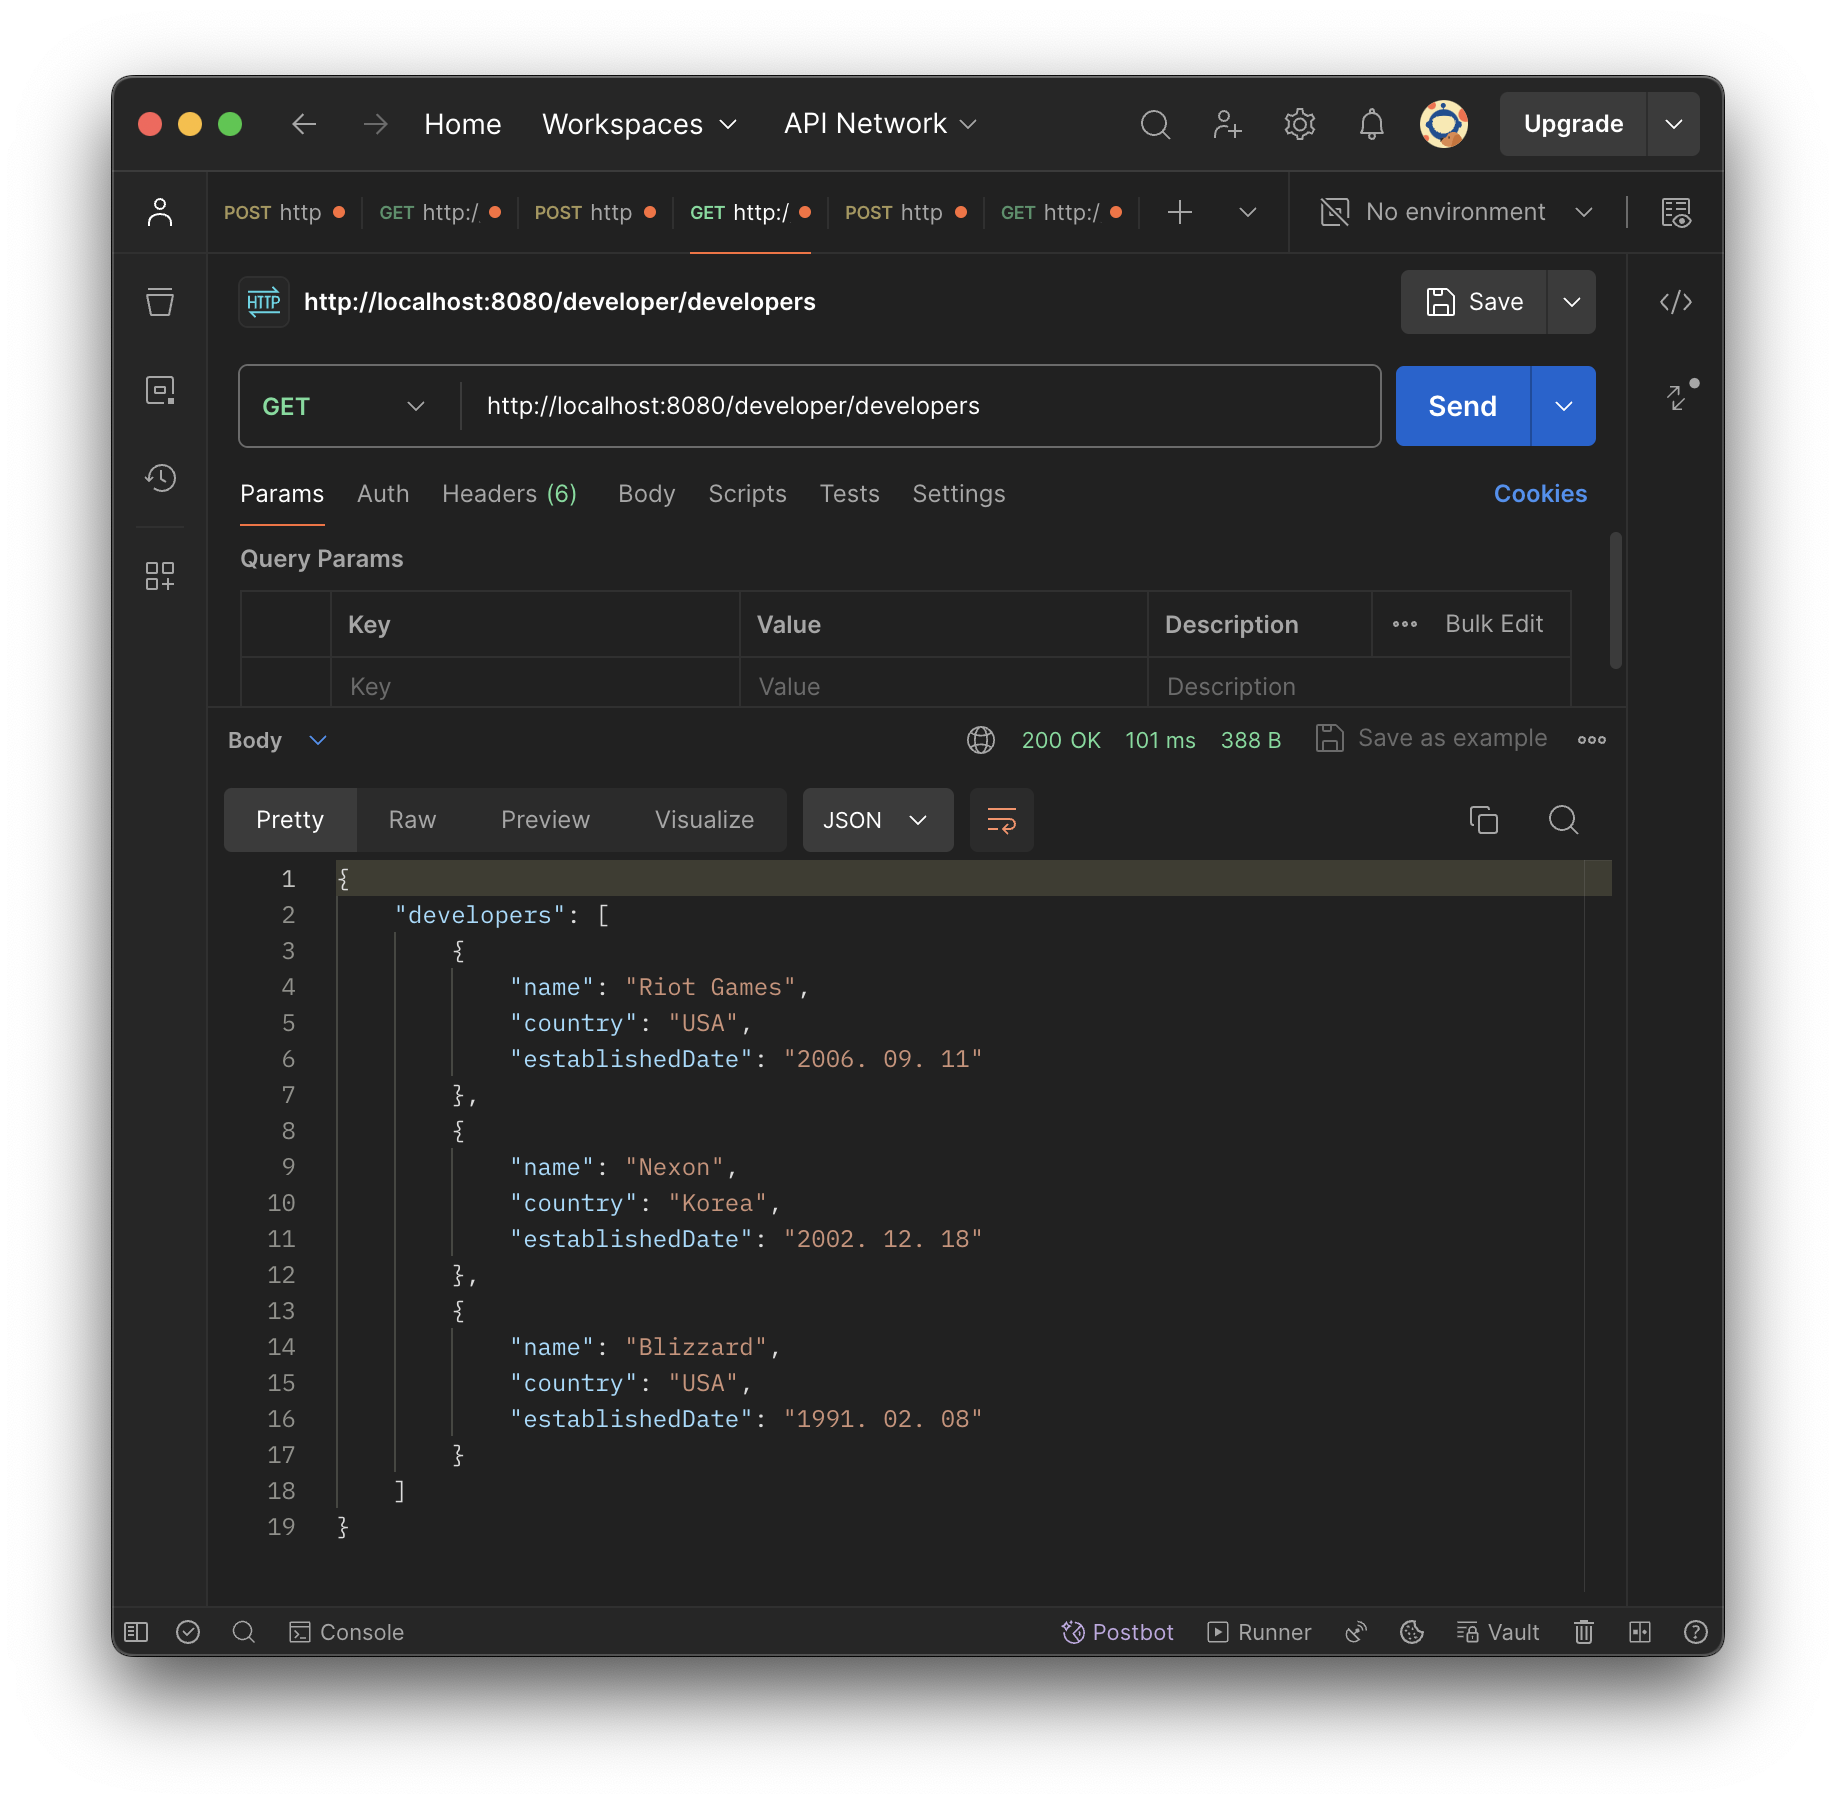
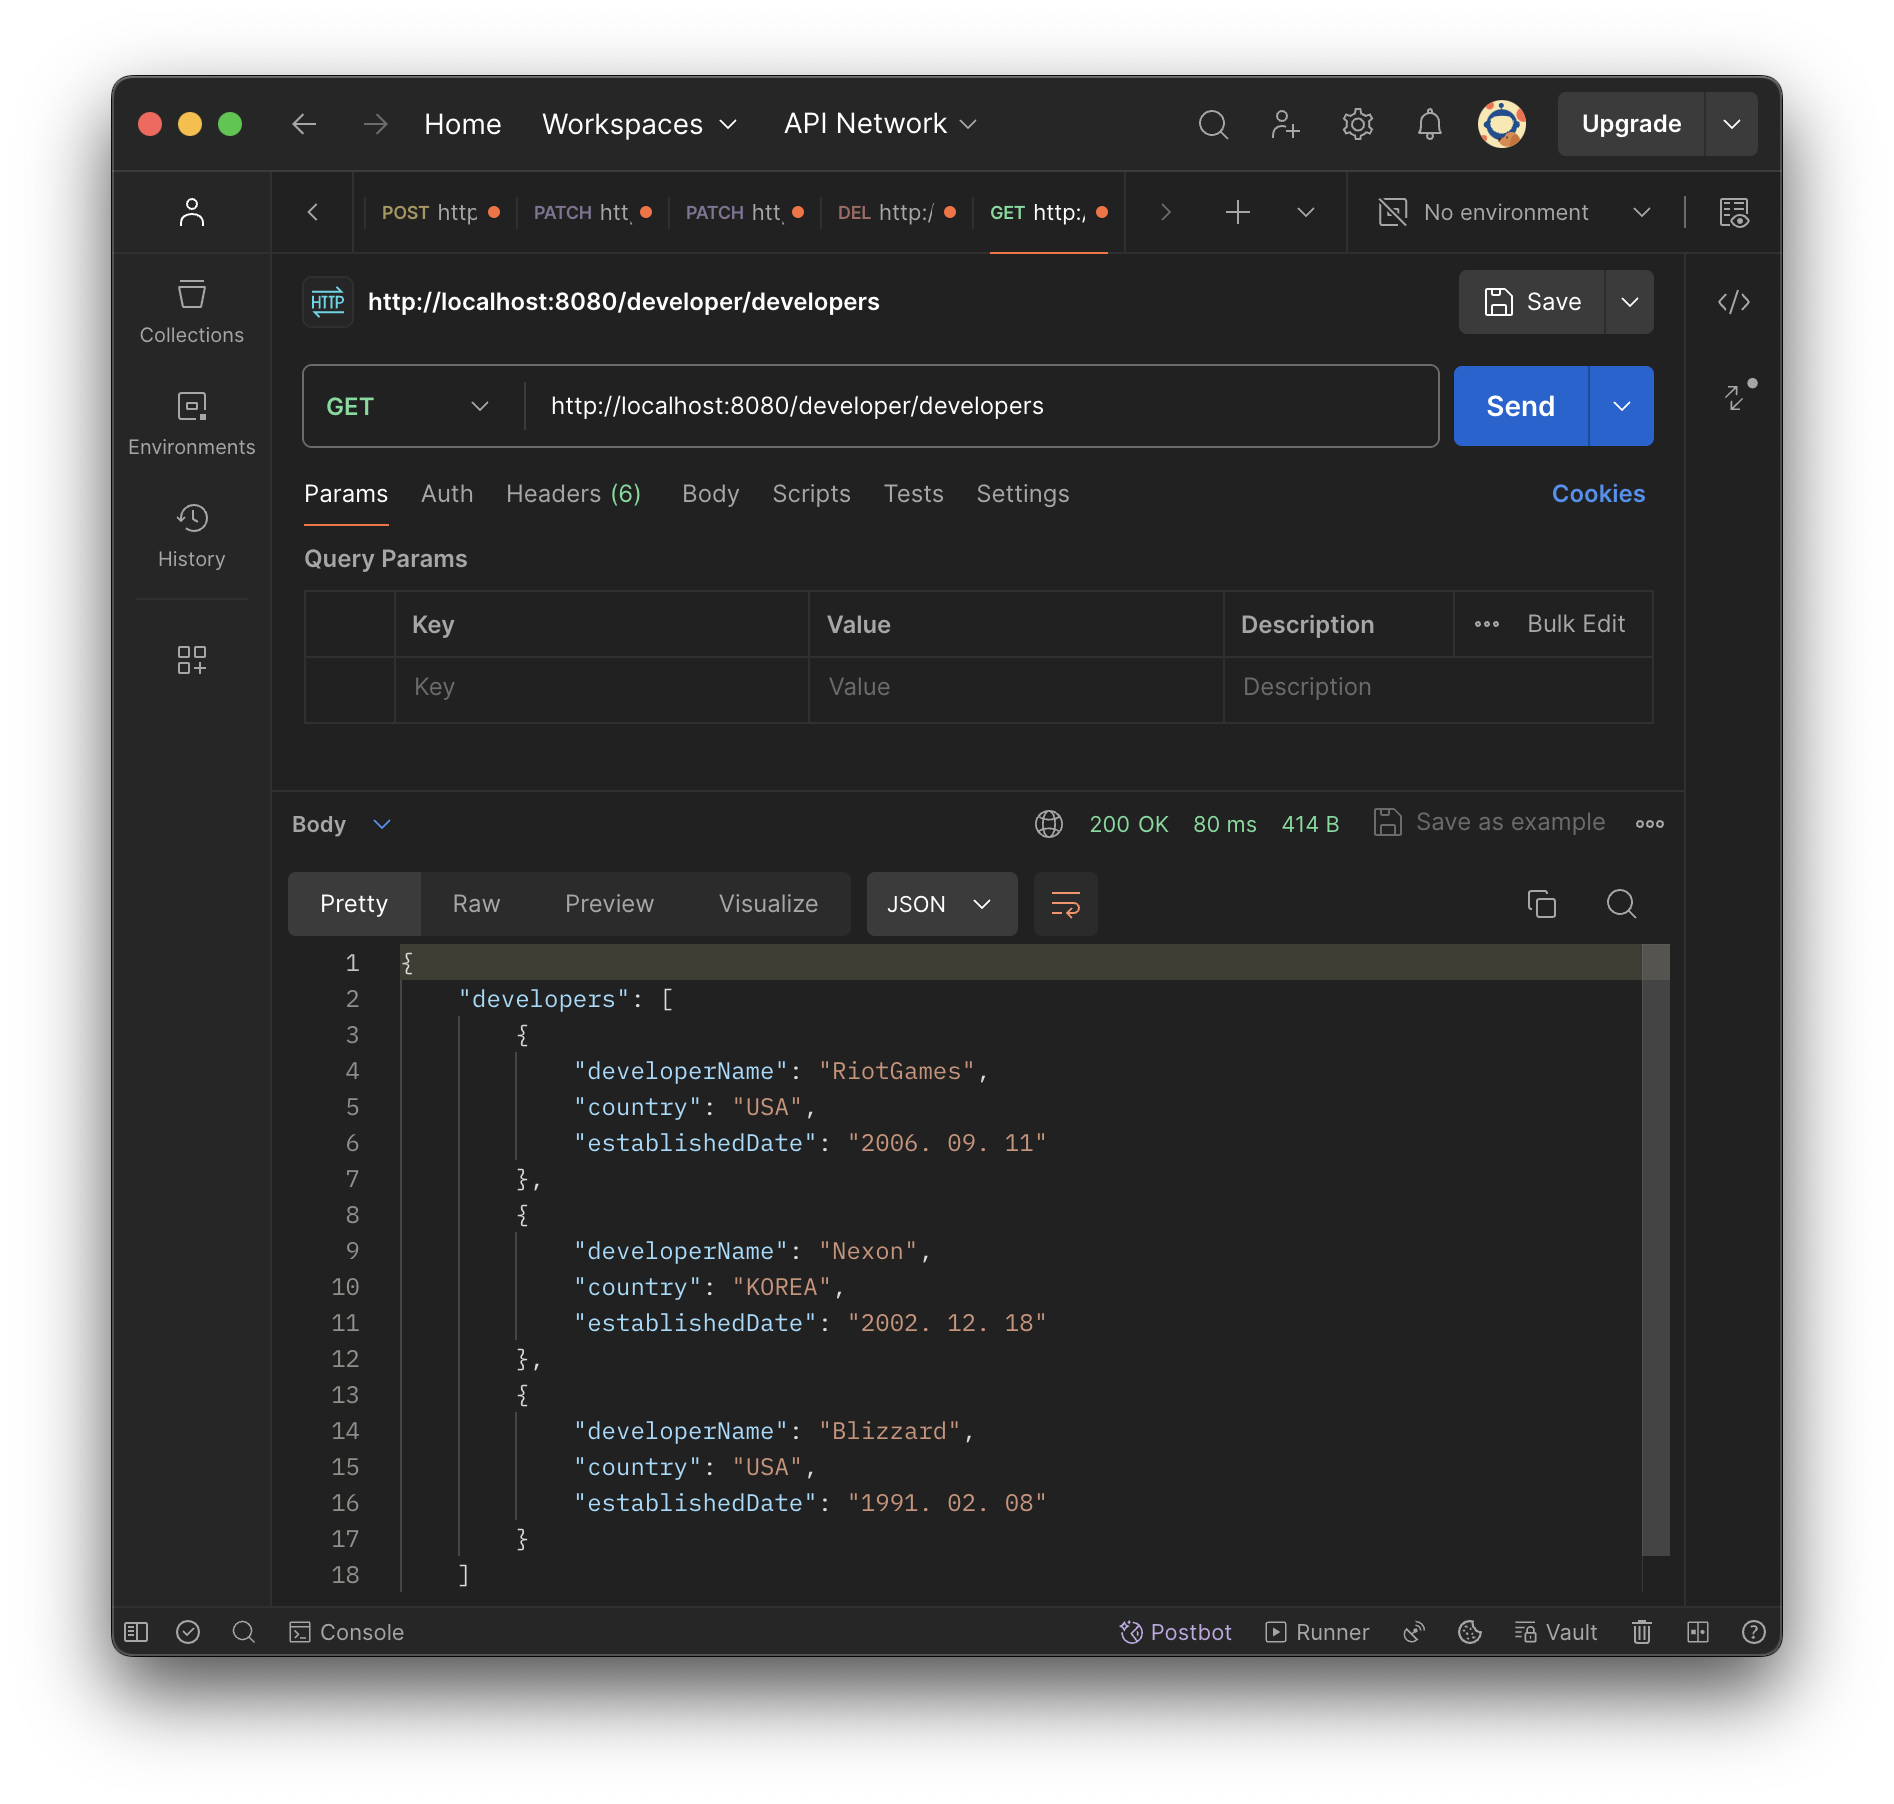
refactor: develoerName으로 게임 리스트를 조회

diff --git a/kangduoh/likelion-assignment-crud/src/main/java/org/likelion/likelionassignmentcrud/developer/application/DeveloperService.java b/kangduoh/likelion-assignment-crud/src/main/java/org/likelion/likelionassignmentcrud/developer/application/DeveloperService.java
@@ -10,11 +10,13 @@ import org.springframework.stereotype.Service;
 import org.springframework.transaction.annotation.Transactional;
 
 import java.util.List;
+import java.util.regex.Pattern;
 
 @Service
 @Transactional(readOnly = true)
 public class DeveloperService {
     private final DeveloperRepository developerRepository;
+    private static final String NAME_PATTERN = "^[a-zA-Z0-9]*$";
 
     public DeveloperService(DeveloperRepository developerRepository) {
         this.developerRepository = developerRepository;
@@ -23,8 +25,12 @@ public class DeveloperService {
     // 개발사 저장
     @Transactional
     public void developerSave(DeveloperSaveReqDto developerSaveReqDto) {
+        if (!Pattern.matches(NAME_PATTERN, developerSaveReqDto.developerName())) {
+            throw new IllegalArgumentException("개발사 이름은 영문자와 숫자만 포함 가능합니다.");
+        }
+
         Developer developer = Developer.builder()
-                .name(developerSaveReqDto.name())
+                .name(developerSaveReqDto.developerName())
                 .country(developerSaveReqDto.country())
                 .establishedDate(developerSaveReqDto.establishedDate())
                 .build();
@@ -44,24 +50,24 @@ public class DeveloperService {
     }
 
     // 개발사 조회(하나)
-    public DeveloperInfoResDto developerFindOne(Long developerId) {
-        Developer developer = developerRepository.findById(developerId).orElseThrow(IllegalArgumentException::new);
+    public DeveloperInfoResDto developerFindOne(String developerName) {
+        Developer developer = developerRepository.findByName(developerName).orElseThrow(IllegalArgumentException::new);
 
         return DeveloperInfoResDto.from(developer);
     }
 
     // 개발사 업데이트(이름, 국가, 설립일)
     @Transactional
-    public void developerUpdate(Long developerId, DeveloperUpdateReqDto developerUpdateReqDto) {
-        Developer developer = developerRepository.findById(developerId).orElseThrow(IllegalArgumentException::new);
+    public void developerUpdate(String developerName, DeveloperUpdateReqDto developerUpdateReqDto) {
+        Developer developer = developerRepository.findByName(developerName).orElseThrow(IllegalArgumentException::new);
 
         developer.update(developerUpdateReqDto);
     }
 
     // 개발사 삭제
     @Transactional
-    public void developerDelete(Long developerId) {
-        Developer developer = developerRepository.findById(developerId).orElseThrow(IllegalArgumentException::new);
+    public void developerDelete(String developerName) {
+        Developer developer = developerRepository.findByName(developerName).orElseThrow(IllegalArgumentException::new);
 
         developerRepository.delete(developer);
     }

diff --git a/kangduoh/likelion-assignment-crud/src/main/java/org/likelion/likelionassignmentcrud/developer/api/DeveloperController.java b/kangduoh/likelion-assignment-crud/src/main/java/org/likelion/likelionassignmentcrud/developer/api/DeveloperController.java
@@ -32,24 +32,29 @@ public class DeveloperController {
         return new ResponseEntity<>(developerListResDto, HttpStatus.OK);
     }
 
-    @GetMapping("/{developerId}")
-    public ResponseEntity<DeveloperInfoResDto> developerFindOne(@PathVariable("developerId") Long developerId) {
-        DeveloperInfoResDto developerInfoResDto = developerService.developerFindOne(developerId);
+    @GetMapping("/{developerName}")
+    public ResponseEntity<DeveloperInfoResDto> developerFindOne(@PathVariable("developerName") String developerName) {
+        DeveloperInfoResDto developerInfoResDto = developerService.developerFindOne(developerName);
 
         return new ResponseEntity<>(developerInfoResDto, HttpStatus.OK);
     }
 
-    @PatchMapping("/{developerId}")
-    public ResponseEntity<String> developerUpdate(@PathVariable("developerId") Long developerId, @RequestBody DeveloperUpdateReqDto developerUpdateReqDto) {
-        developerService.developerUpdate(developerId, developerUpdateReqDto);
+    @PatchMapping("/{developerName}")
+    public ResponseEntity<String> developerUpdate(@PathVariable("developerName") String developerName, @RequestBody DeveloperUpdateReqDto developerUpdateReqDto) {
+        developerService.developerUpdate(developerName, developerUpdateReqDto);
 
         return new ResponseEntity<>("개발사 수정", HttpStatus.OK);
     }
 
-    @DeleteMapping("/{developerId}")
-    public ResponseEntity<String> developerDelete(@PathVariable("developerId") Long developerId) {
-        developerService.developerDelete(developerId);
+    @DeleteMapping("/{developerName}")
+    public ResponseEntity<String> developerDelete(@PathVariable("developerName") String developerName) {
+        developerService.developerDelete(developerName);
 
         return new ResponseEntity<>("개발사 삭제", HttpStatus.OK);
+    }
+
+    @ExceptionHandler(IllegalArgumentException.class)
+    public final ResponseEntity<String> handleIllegalArgumentException(IllegalArgumentException ex) {
+        return new ResponseEntity<>(ex.getMessage(), HttpStatus.BAD_REQUEST);
     }
 }

diff --git a/kangduoh/likelion-assignment-crud/src/main/java/org/likelion/likelionassignmentcrud/game/application/GameService.java b/kangduoh/likelion-assignment-crud/src/main/java/org/likelion/likelionassignmentcrud/game/application/GameService.java
@@ -27,7 +27,7 @@ public class GameService {
     // Create
     @Transactional
     public void gameSave(GameSaveReqDto gameSaveReqDto) {
-        Developer developer = developerRepository.findById(gameSaveReqDto.developerId())
+        Developer developer = developerRepository.findByName(gameSaveReqDto.developerName())
                 .orElseThrow(IllegalArgumentException::new);
 
         Game game = Game.builder()
@@ -41,9 +41,9 @@ public class GameService {
     }
 
     // 개발사에 따른 게임 리스트 조회
-    public GameListResDto gameFindDeveloper(Long developerId) {
-        Developer developer = developerRepository.findById(developerId)
-                .orElseThrow(null);
+    public GameListResDto gameFindDeveloperByName(String developerName) {
+        Developer developer = developerRepository.findByName(developerName)
+                .orElseThrow(() -> new IllegalArgumentException("해당 개발사를 찾을 수 없습니다."));
 
         List<Game> games = gameRepository.findByDeveloper(developer);
         List<GameInfoResDto> gameInfoResDtoList = games.stream()

diff --git a/kangduoh/likelion-assignment-crud/src/main/java/org/likelion/likelionassignmentcrud/developer/domain/Developer.java b/kangduoh/likelion-assignment-crud/src/main/java/org/likelion/likelionassignmentcrud/developer/domain/Developer.java
@@ -17,11 +17,9 @@ import java.util.List;
 public class Developer {
 
     @Id
-    @GeneratedValue(strategy = GenerationType.IDENTITY)
-    @Column(name = "developer_id")
-    private Long developerId;
-
+    @Column(name = "developer_name", nullable = false, unique = true)
     private String name;
+
     private String country;
     private String establishedDate;
 
@@ -36,7 +34,6 @@ public class Developer {
     }
 
     public void update(DeveloperUpdateReqDto developerUpdateReqDto) {
-        this.name = developerUpdateReqDto.name();
         this.country = developerUpdateReqDto.country();
         this.establishedDate = developerUpdateReqDto.establishedDate();
     }

diff --git a/kangduoh/likelion-assignment-crud/src/main/java/org/likelion/likelionassignmentcrud/game/api/GameController.java b/kangduoh/likelion-assignment-crud/src/main/java/org/likelion/likelionassignmentcrud/game/api/GameController.java
@@ -25,9 +25,9 @@ public class GameController {
     }
 
     // 개발사에 따른 게임 리스트 불러오기
-    @GetMapping("/{developerId}")
-    public ResponseEntity<GameListResDto> myGameFindAll(@PathVariable("developerId") Long developerId) {
-        GameListResDto gameListResDto = gameService.gameFindDeveloper(developerId);
+    @GetMapping("/developer/{developerName}")
+    public ResponseEntity<GameListResDto> myGameFindAllByDeveloper(@PathVariable("developerName") String developerName) {
+        GameListResDto gameListResDto = gameService.gameFindDeveloperByName(developerName);
 
         return new ResponseEntity<>(gameListResDto, HttpStatus.OK);
     }

diff --git a/kangduoh/likelion-assignment-crud/src/main/java/org/likelion/likelionassignmentcrud/developer/api/dto/response/DeveloperInfoResDto.java b/kangduoh/likelion-assignment-crud/src/main/java/org/likelion/likelionassignmentcrud/developer/api/dto/response/DeveloperInfoResDto.java
@@ -5,13 +5,13 @@ import org.likelion.likelionassignmentcrud.developer.domain.Developer;
 
 @Builder
 public record DeveloperInfoResDto(
-        String name,
+        String developerName,
         String country,
         String establishedDate
 ) {
     public static DeveloperInfoResDto from(Developer developer) {
         return DeveloperInfoResDto.builder()
-                .name(developer.getName())
+                .developerName(developer.getName())
                 .country(developer.getCountry())
                 .establishedDate(developer.getEstablishedDate())
                 .build();

diff --git a/kangduoh/likelion-assignment-crud/src/main/java/org/likelion/likelionassignmentcrud/game/api/dto/request/GameSaveReqDto.java b/kangduoh/likelion-assignment-crud/src/main/java/org/likelion/likelionassignmentcrud/game/api/dto/request/GameSaveReqDto.java
@@ -3,8 +3,8 @@ package org.likelion.likelionassignmentcrud.game.api.dto.request;
 import org.likelion.likelionassignmentcrud.game.domain.Platform;
 
 public record GameSaveReqDto(
-        // 개발사 아이디, 이름, 장르, 플랫폼
-        Long developerId,
+        // 개발사명, 게임명, 장르, 플랫폼
+        String developerName,
         String name,
         String genre,
         Platform platform

diff --git a/kangduoh/likelion-assignment-crud/src/main/java/org/likelion/likelionassignmentcrud/developer/domain/repository/DeveloperRepository.java b/kangduoh/likelion-assignment-crud/src/main/java/org/likelion/likelionassignmentcrud/developer/domain/repository/DeveloperRepository.java
@@ -3,5 +3,8 @@ package org.likelion.likelionassignmentcrud.developer.domain.repository;
 import org.likelion.likelionassignmentcrud.developer.domain.Developer;
 import org.springframework.data.jpa.repository.JpaRepository;
 
+import java.util.Optional;
+
 public interface DeveloperRepository extends JpaRepository<Developer, Long> {
+    Optional<Developer> findByName(String name);
 }

diff --git a/kangduoh/likelion-assignment-crud/src/main/java/org/likelion/likelionassignmentcrud/developer/api/dto/request/DeveloperSaveReqDto.java b/kangduoh/likelion-assignment-crud/src/main/java/org/likelion/likelionassignmentcrud/developer/api/dto/request/DeveloperSaveReqDto.java
@@ -2,7 +2,7 @@ package org.likelion.likelionassignmentcrud.developer.api.dto.request;
 
 public record DeveloperSaveReqDto(
         // 이름, 국가, 설립일
-        String name,
+        String developerName,
         String country,
         String establishedDate
 ) {

diff --git a/kangduoh/likelion-assignment-crud/src/main/java/org/likelion/likelionassignmentcrud/game/domain/Game.java b/kangduoh/likelion-assignment-crud/src/main/java/org/likelion/likelionassignmentcrud/game/domain/Game.java
@@ -25,7 +25,7 @@ public class Game {
     private Platform platform;
 
     @ManyToOne(fetch = FetchType.LAZY)
-    @JoinColumn(name = "developer_id")
+    @JoinColumn(name = "developer_name")
     private Developer developer;
 
     @Builder

diff --git a/kangduoh/likelion-assignment-crud/src/main/java/org/likelion/likelionassignmentcrud/developer/api/dto/request/DeveloperUpdateReqDto.java b/kangduoh/likelion-assignment-crud/src/main/java/org/likelion/likelionassignmentcrud/developer/api/dto/request/DeveloperUpdateReqDto.java
@@ -1,7 +1,6 @@
 package org.likelion.likelionassignmentcrud.developer.api.dto.request;
 
 public record DeveloperUpdateReqDto(
-        String name,
         String country,
         String establishedDate
 ) {
